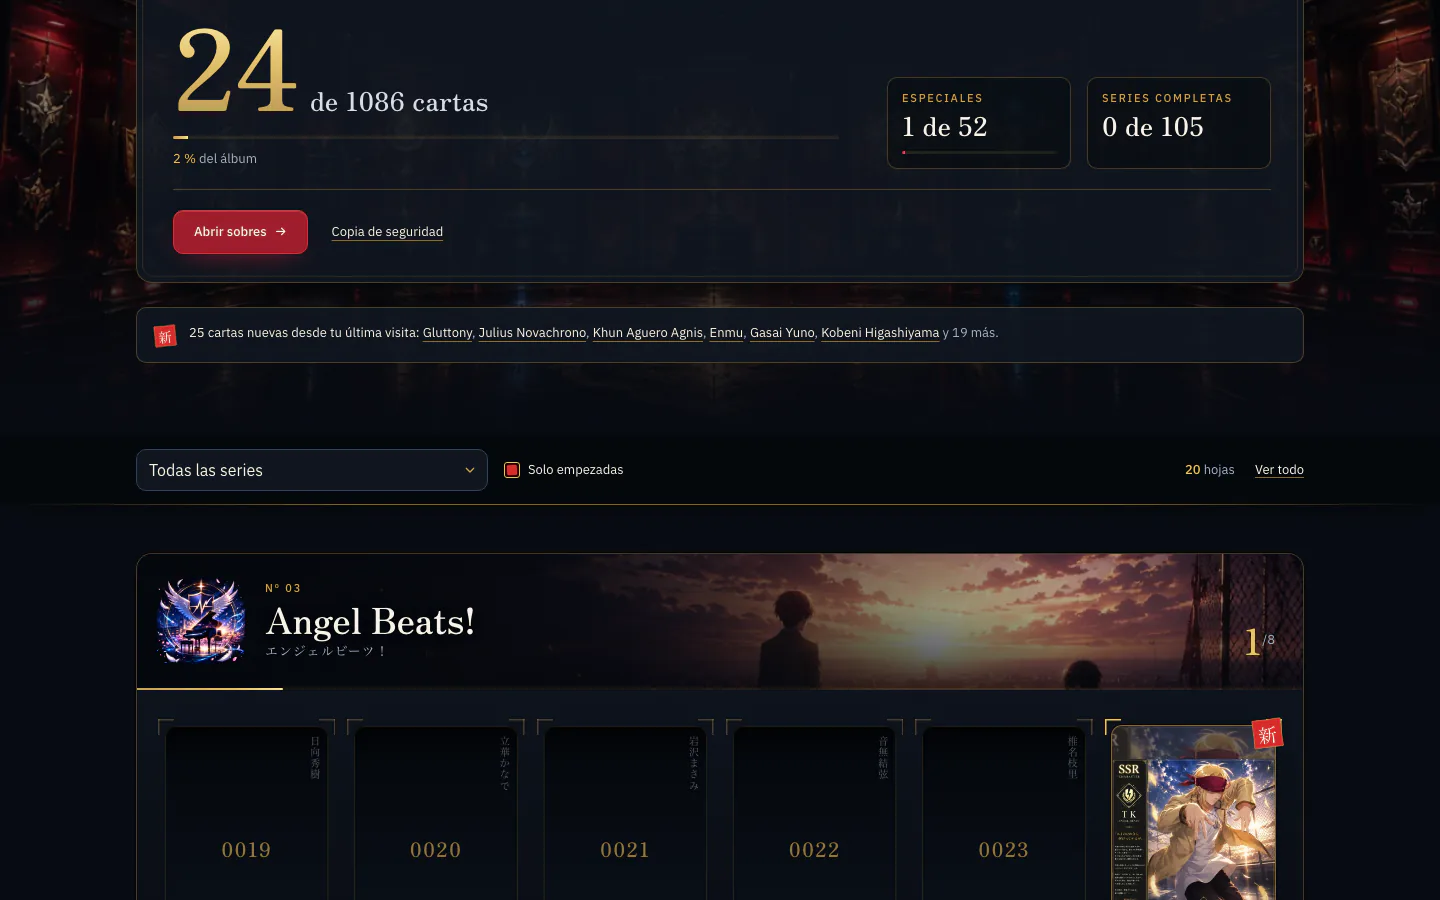
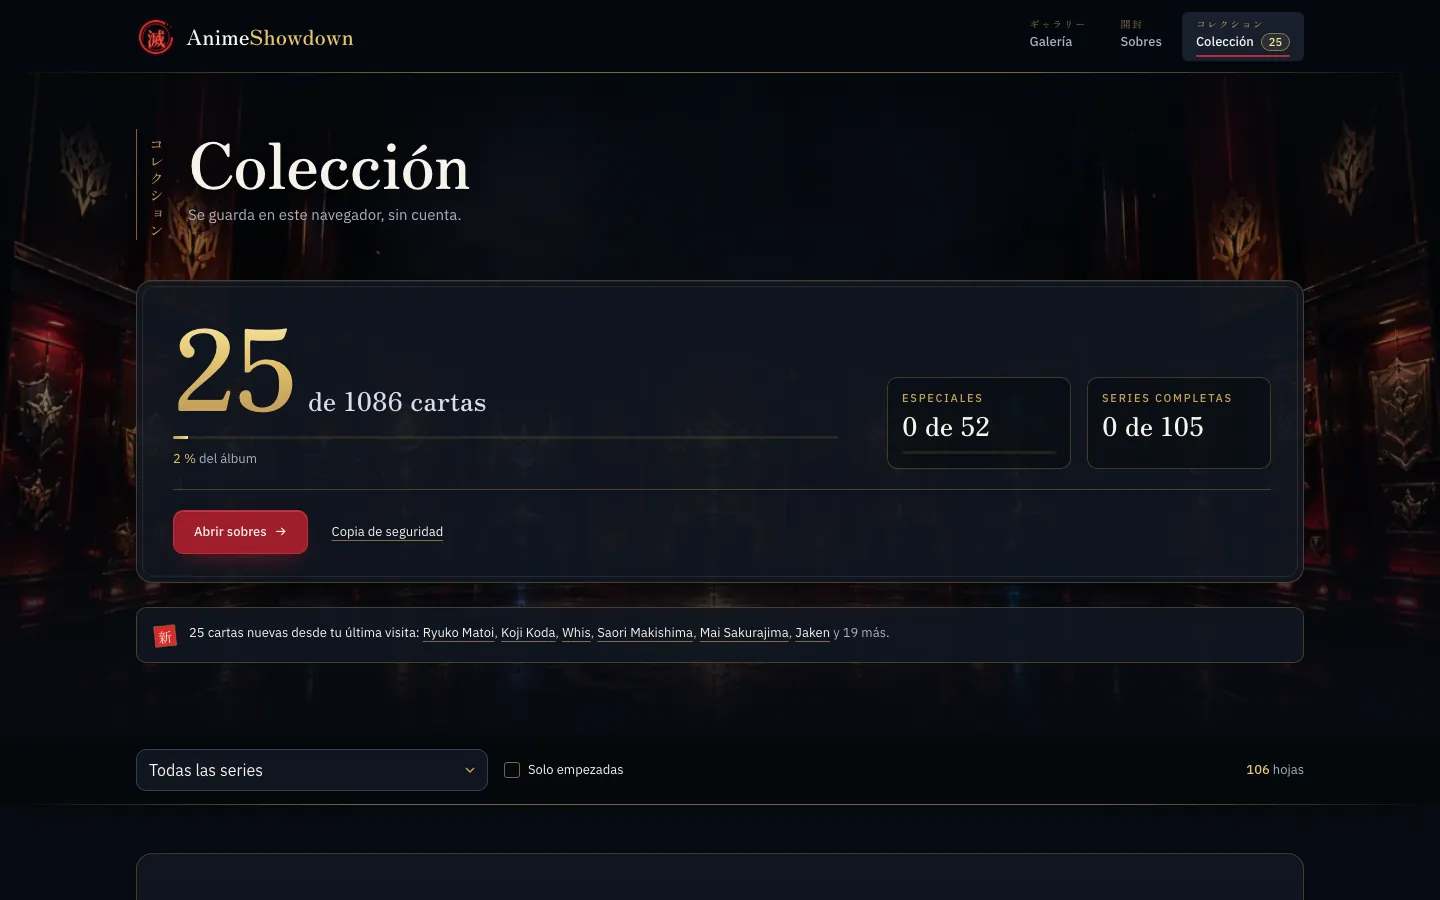
docs: precisiones del README y capturas con una carta del día correcta

diff --git a/README.md b/README.md
@@ -20,7 +20,7 @@ al día para abrir y un álbum para completar. Sin cuentas ni servidor.
 </p>
 <p>
   <img src="docs/capturas/serie.webp" alt="Una serie dentro de la galería" width="49%">
-  <img src="docs/capturas/coleccion.webp" alt="Álbum de la colección" width="49%">
+  <img src="docs/capturas/coleccion.webp" alt="Colección con el progreso del álbum" width="49%">
 </p>
 <p align="center">
   <img src="docs/capturas/movil.webp" alt="La galería en el móvil" width="260">
@@ -30,9 +30,9 @@ al día para abrir y un álbum para completar. Sin cuentas ni servidor.
 
 - **Galería.** 1086 cartas de personajes de 105 series y 52 cartas especiales, agrupadas
   por serie. Búsqueda por nombre o serie (atajo `/`) y filtros por serie o por
-  especiales; los filtros quedan en la dirección, así que se pueden compartir.
+  especiales; los filtros quedan en la URL, así que se pueden compartir.
 - **Fichas.** Cada carta tiene su propia página, con el nombre japonés del personaje
-  en vertical. `←` y `→` recorren la galería, `Esc` vuelve a ella y, si el personaje
+  en vertical. `←` y `→` recorren la galería, `Esc` vuelve atrás y, si el personaje
   tiene versión especial, la carta se gira para verla.
 - **Sobres diarios.** Cada día (a medianoche, hora local) hay 5 sobres de 5 cartas; la
   quinta tiene un 15 % de probabilidad de ser especial. Se rasga el sobre y las cartas
@@ -47,6 +47,9 @@ al día para abrir y un álbum para completar. Sin cuentas ni servidor.
 - **Nombres japoneses** de personajes y series, tomados de AniList.
 
 Las reglas de los sobres están en `src/config.js`.
+
+AnimeShowdown empezó como una plataforma de votaciones con backend propio; esa versión
+se retiró y sigue en el historial de git.
 
 ## Cómo está hecho
 
@@ -64,9 +67,10 @@ Las reglas de los sobres están en `src/config.js`.
 
 Decisiones de rendimiento:
 
-- **Presupuesto de JavaScript.** El build falla si el JavaScript inicial de la portada
-  pasa de 100 kB con gzip (hoy, 97,3 kB). El catálogo va en su propio archivo y las
-  demás páginas se descargan aparte.
+- **Presupuesto de JavaScript.** El build falla si el JavaScript inicial de la portada,
+  sin contar el catálogo de cartas, pasa de 100 kB con gzip (hoy, 97,3 kB). El catálogo
+  (unos 73 kB con gzip, crece con cada carta) va en su propio archivo y las demás
+  páginas se descargan aparte.
 - **Portada prerenderizada.** La sala, el título y las acciones llegan ya pintados en el
   HTML y React los hidrata; la imagen de la sala y las dos fuentes críticas se piden
   desde el `<head>`.
@@ -78,7 +82,7 @@ Decisiones de rendimiento:
 
 ## Ejecutarlo en local
 
-Necesitas Node 22 (ver `.nvmrc`).
+Necesitas Node 22.22 o superior (ver `.nvmrc`).
 
 ```bash
 npm ci
@@ -96,8 +100,8 @@ El despliegue lo fija solo: `/<repositorio>/` en GitHub Pages, o `/` si existe
 
 ## Añadir un personaje
 
-1. Añade una línea al final de `src/data/personajes.json` con el siguiente número `n`
-   (la numeración debe ser correlativa):
+1. Añade una línea al final de `src/data/personajes.json` (con una coma tras la línea
+   anterior) con el siguiente número `n`; la numeración debe ser correlativa:
 
    ```json
    {"id":"eisen","n":1087,"nombre":"Eisen","anime":"Frieren: Beyond Journey's End","animeId":"frieren","img":"img/Frieren/eisen","color":"#5a4a3c","nativo":"アイゼン"}
@@ -105,7 +109,7 @@ El despliegue lo fija solo: `/<repositorio>/` en GitHub Pages, o `/` si existe
 
    `anime` debe coincidir con el `titulo` de su serie en `src/data/animes.json`; súmale
    uno a su `count`, o crea la entrada si la serie es nueva. `img` va sin extensión.
-   `color` es el tono dominante de la ilustración, que se ve mientras carga. `nativo`
+   `color` es el tono medio de la ilustración, que se ve mientras carga. `nativo`
    (nombre japonés) y `desc` (una frase) son opcionales.
 
 2. Copia la ilustración original en WebP (~1024 px de ancho), p. ej.
@@ -126,10 +130,12 @@ El despliegue lo fija solo: `/<repositorio>/` en GitHub Pages, o `/` si existe
    cuadren, que existan los cuatro archivos de imagen y que `ar` corresponda a la
    ilustración. También se ejecuta al construir: si algo falla, el build se para.
 
-Las **especiales** viven en `src/data/especiales.json` (ids con prefijo `e-`) y
-`public/img/especiales/`. Tras copiar la ilustración original,
-`node scripts/generate-especiales.mjs` (necesita `cwebp` y `dwebp`) crea los tamaños y
-anota la ruta y el tono dominante.
+Para añadir una **especial**, crea su entrada en `src/data/especiales.json` (id con
+prefijo `e-`, `n` correlativo, `personajeId` si es la versión especial de un personaje,
+`nombre`, `anime`, `animeId` e `img`), copia la ilustración original en
+`public/img/especiales/` y ejecuta `node scripts/generate-especiales.mjs` (necesita
+`cwebp` y `dwebp`): genera los tamaños, quita la extensión de `img` si la lleva y
+rellena `color` con el tono medio si falta.
 
 El **arte de una serie** se activa con el campo `marca` de `animes.json`, el nombre de
 sus archivos en `public/img/marca/`: escenario 16:9 (`-escena-768` y `-escena-1280`),
@@ -156,9 +162,6 @@ docs/capturas/    capturas de este README
 
 Los motivos de los sobres y dorsos, las brasas, los rayos de luz y la cara aplanada
 del sobre salen de los `scripts/generate-*.mjs` correspondientes (ver sus cabeceras).
-
-AnimeShowdown empezó como una plataforma de votaciones con backend propio; esa versión
-se retiró y sigue en el historial de git.
 
 ## Derechos
 
